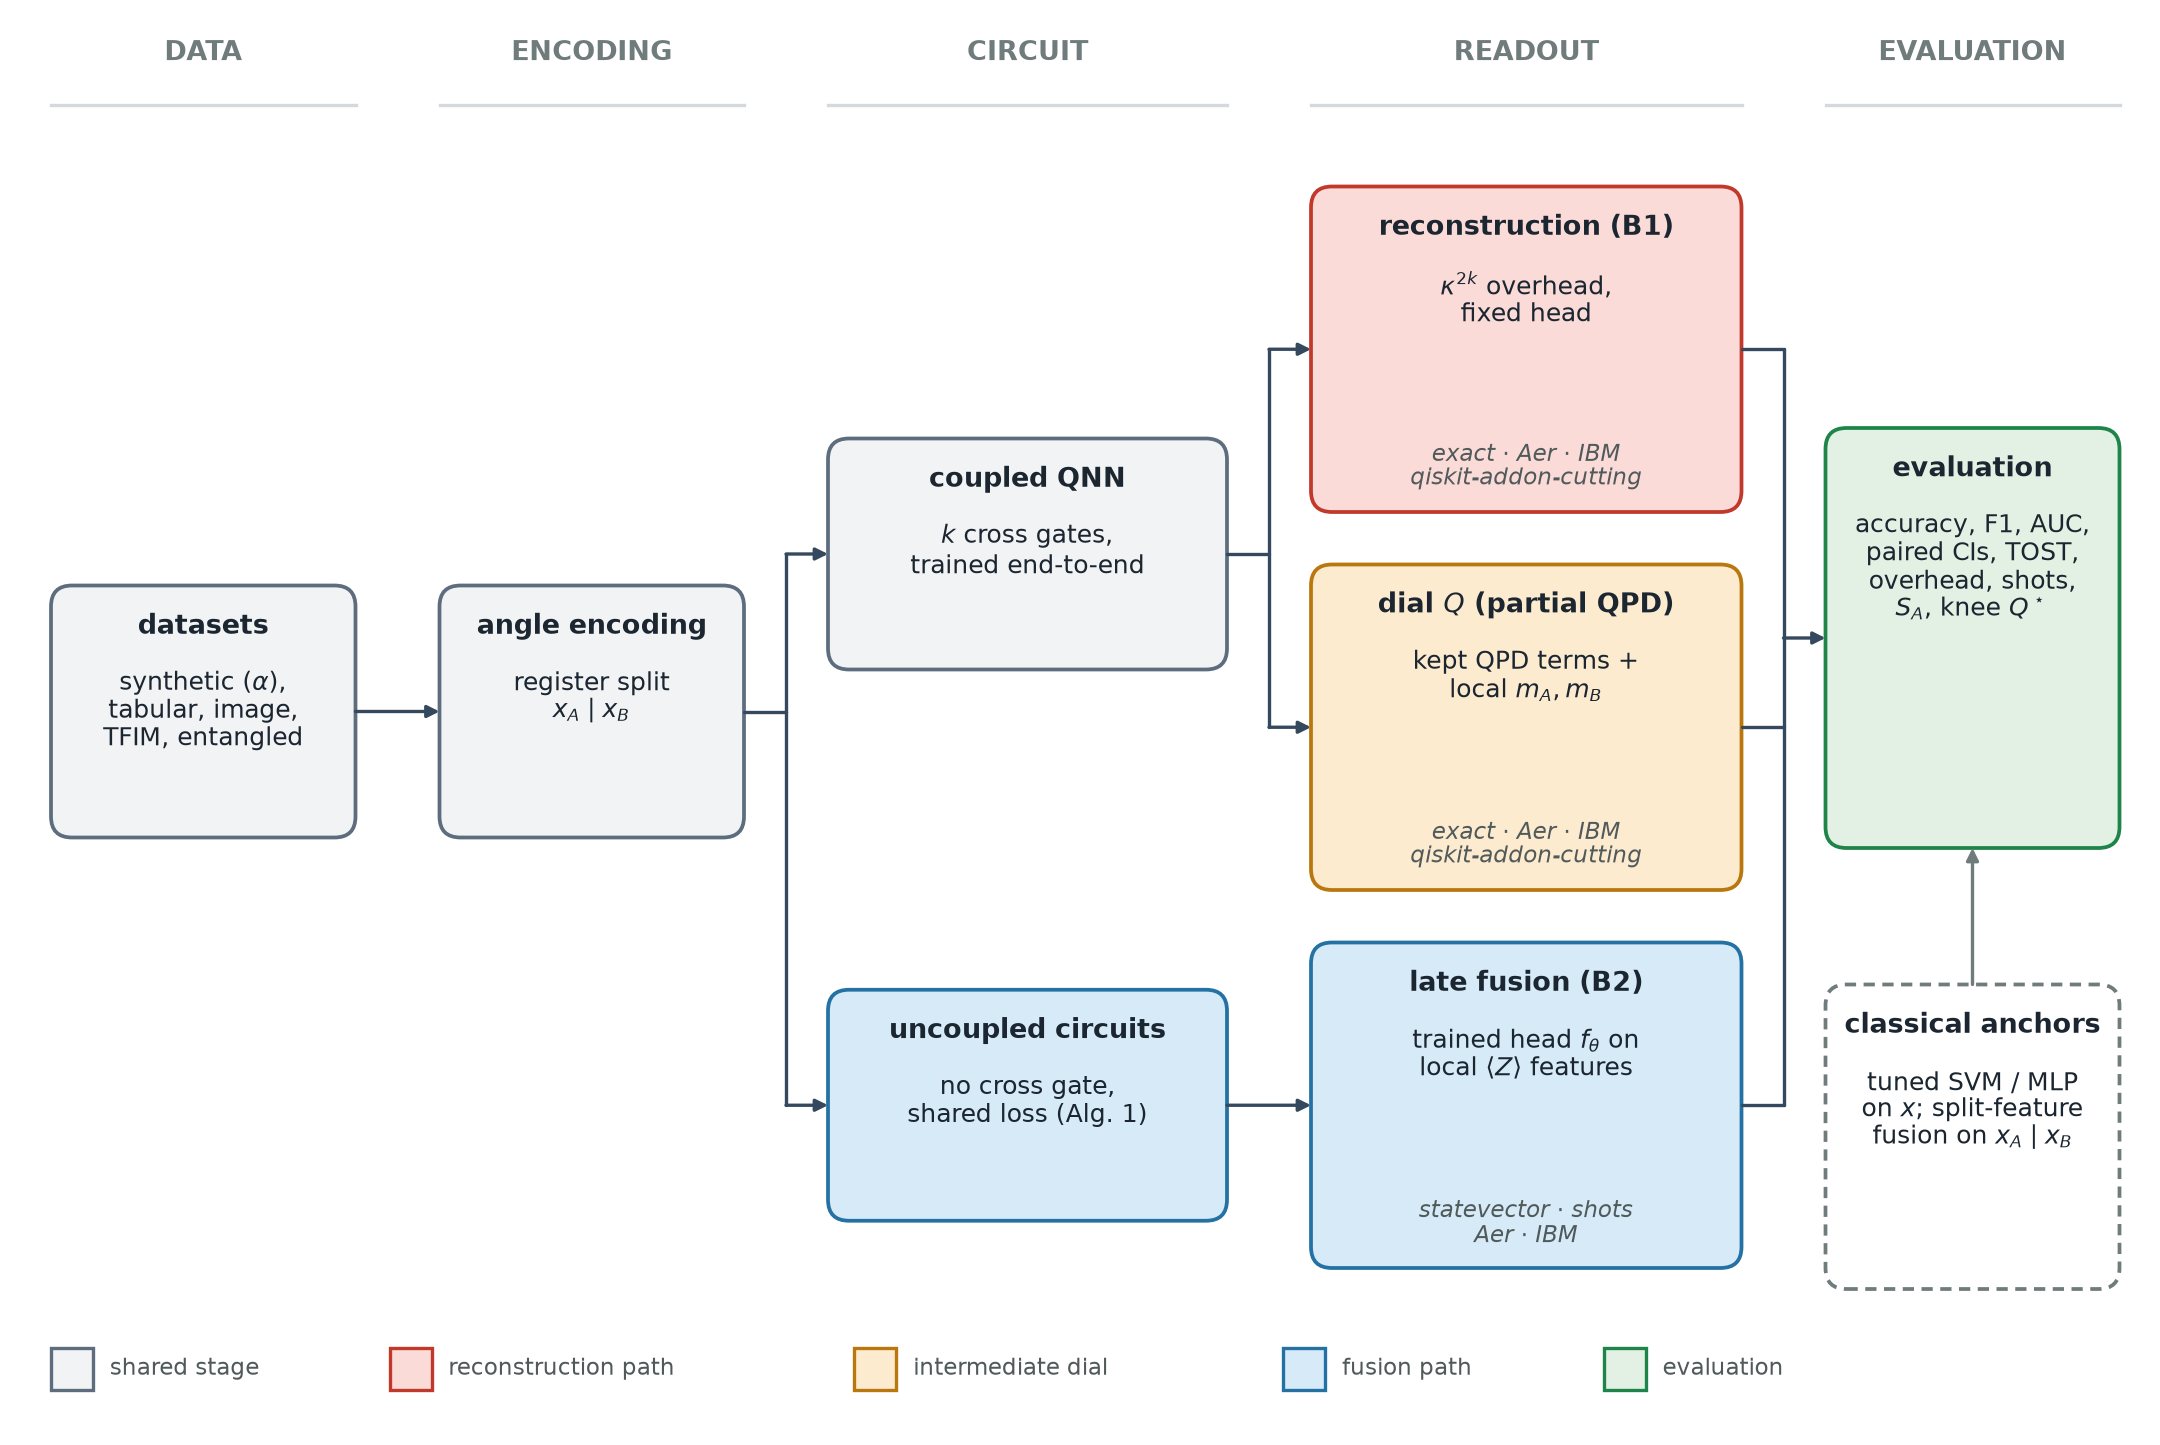
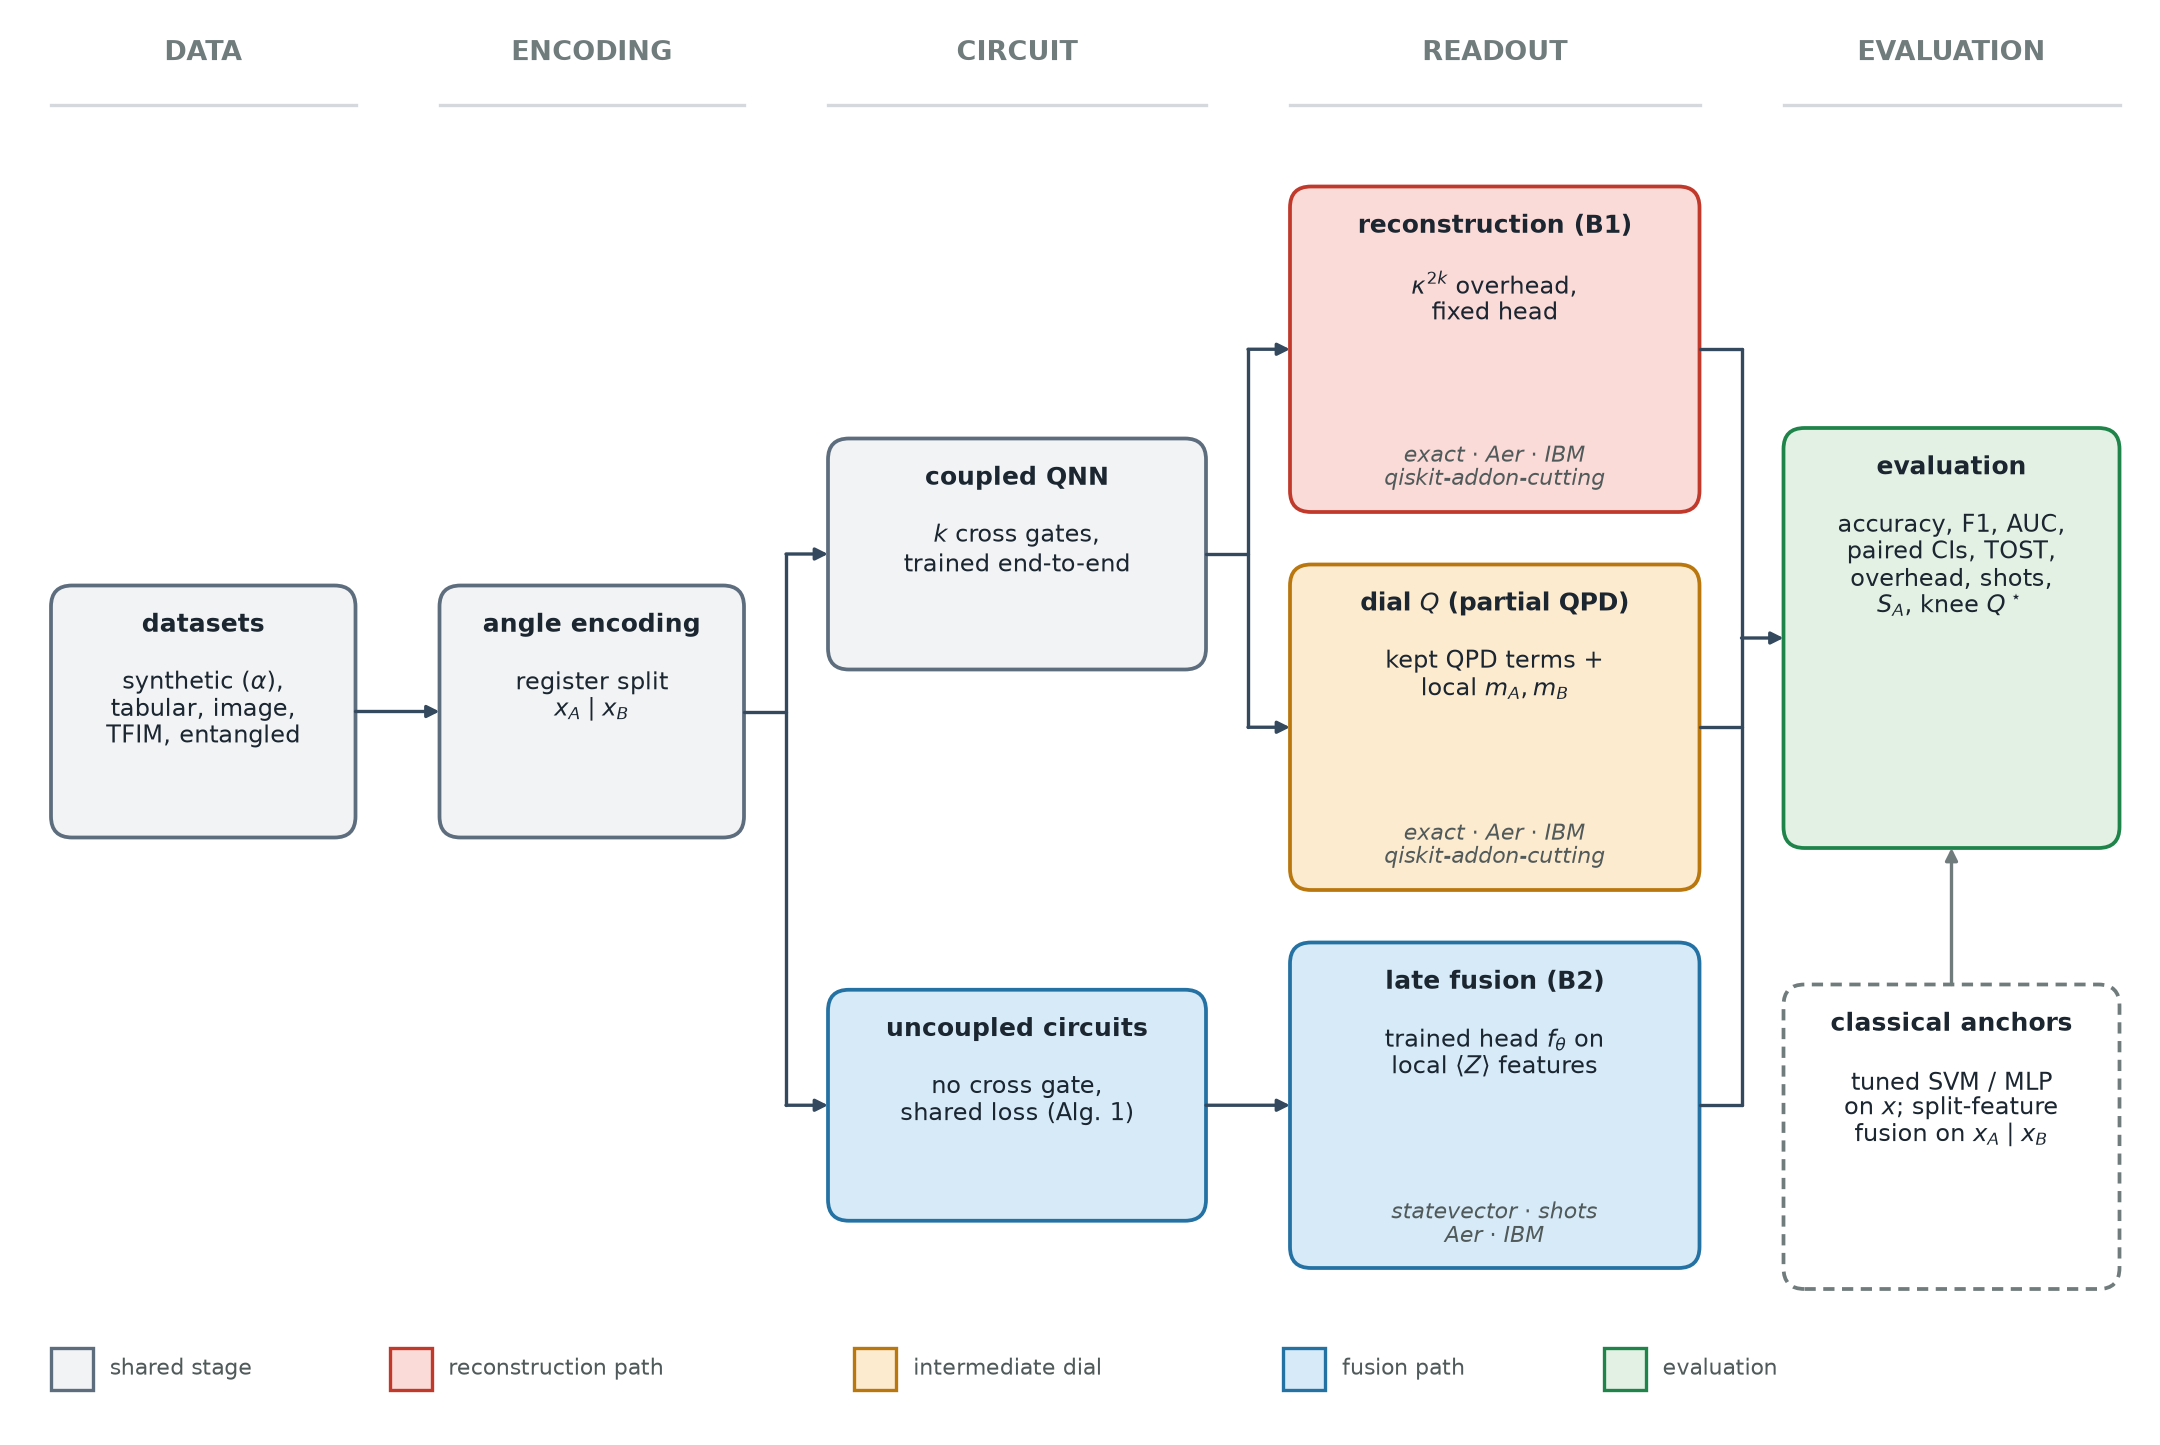
Figure 1: column widths tuned for the default typeface

diff --git a/make_figures.py b/make_figures.py
@@ -503,7 +503,7 @@ def fig_pipeline():
             fam = PIPELINE_FONT
     rc = {"font.family": fam, "mathtext.fontset": "custom", "mathtext.rm": fam, "mathtext.it": fam + ":italic",
           "mathtext.bf": fam + ":bold", "mathtext.sf": fam, "mathtext.cal": fam} if fam else {}
-    f_head, f_title, f_body, f_eng = 6.5, 6.5, 6.0, 5.5
+    f_head, f_title, f_body, f_eng = (6.5, 6.5, 6.0, 5.5) if fam else (6.5, 5.9, 5.8, 5.3)   # DejaVu is wider
     with plt.rc_context(rc):
         fig, ax = plt.subplots(figsize=(WP, WP * 0.66))
         fig.subplots_adjust(0, 0, 1, 1)
@@ -541,30 +541,30 @@ def fig_pipeline():
             ax.plot([xm, xm], [ys[0], ys[-1]], color=line, lw=0.8, solid_capstyle="round")
             head(xm, x1, y1)
         # columns: x, width (gaps of 4 units carry the connectors)
-        cols = [(1, 14.5, "DATA"), (19.5, 14.5, "ENCODING"), (38, 19, "CIRCUIT"), (61, 20.5, "READOUT"), (85.5, 14, "EVALUATION")]
+        cols = [(1, 14.5, "DATA"), (19.5, 14.5, "ENCODING"), (38, 18, "CIRCUIT"), (60, 19.5, "READOUT"), (83.5, 16, "EVALUATION")]
         for x, w, lab in cols:
             ax.text(x + w / 2, 65.5, lab, ha="center", va="top", fontsize=f_head, color="#707b7c", fontweight="bold")
             ax.plot([x, x + w], [62.4, 62.4], color="#d5d8dc", lw=0.8)
         H = 15.5
         box(1, 27.5, 14.5, 12, "datasets", "synthetic ($\\alpha$),\ntabular, image,\nTFIM, entangled", "shared")
         box(19.5, 27.5, 14.5, 12, "angle encoding", "register split\n$x_A \\mid x_B$", "shared")
-        box(38, 35.5, 19, 11, "coupled QNN", "$k$ cross gates,\ntrained end-to-end", "shared")
-        box(38, 9.25, 19, 11, "uncoupled circuits", "no cross gate,\nshared loss (Alg. 1)", "fusion")
-        box(61, 43, 20.5, H, "reconstruction (B1)", "$\\kappa^{2k}$ overhead,\nfixed head", "recon",
+        box(38, 35.5, 18, 11, "coupled QNN", "$k$ cross gates,\ntrained end-to-end", "shared")
+        box(38, 9.25, 18, 11, "uncoupled circuits", "no cross gate,\nshared loss (Alg. 1)", "fusion")
+        box(60, 43, 19.5, H, "reconstruction (B1)", "$\\kappa^{2k}$ overhead,\nfixed head", "recon",
             "exact $\\cdot$ Aer $\\cdot$ IBM\nqiskit-addon-cutting")
-        box(61, 25, 20.5, H, "dial $Q$ (partial QPD)", "kept QPD terms $+$\nlocal $m_A, m_B$", "dial",
+        box(60, 25, 19.5, H, "dial $Q$ (partial QPD)", "kept QPD terms $+$\nlocal $m_A, m_B$", "dial",
             "exact $\\cdot$ Aer $\\cdot$ IBM\nqiskit-addon-cutting")
-        box(61, 7, 20.5, H, "late fusion (B2)", "trained head $f_\\theta$ on\nlocal $\\langle Z\\rangle$ features", "fusion",
+        box(60, 7, 19.5, H, "late fusion (B2)", "trained head $f_\\theta$ on\nlocal $\\langle Z\\rangle$ features", "fusion",
             "statevector $\\cdot$ shots\nAer $\\cdot$ IBM")
-        box(85.5, 27, 14, 20, "evaluation", "accuracy, F1, AUC,\npaired CIs, TOST,\noverhead, shots,\n$S_A$, knee $Q^\\star$", "eval")
-        box(85.5, 6, 14, 14.5, "classical anchors", "tuned SVM / MLP\non $x$; split-feature\nfusion on $x_A \\mid x_B$", "shared", dashed=True)
+        box(83.5, 27, 16, 20, "evaluation", "accuracy, F1, AUC,\npaired CIs, TOST,\noverhead, shots,\n$S_A$, knee $Q^\\star$", "eval")
+        box(83.5, 6, 16, 14.5, "classical anchors", "tuned SVM / MLP\non $x$; split-feature\nfusion on $x_A \\mid x_B$", "shared", dashed=True)
         # connectors: data -> encoding -> {coupled, uncoupled}; coupled -> {B1, dial}; uncoupled -> B2; readouts -> evaluation
         head(15.5, 19.5, 33.5)
         fanout(34, 33.5, 38, [41, 14.75])
-        fanout(57, 41, 61, [50.75, 32.75])
-        head(57, 61, 14.75)
-        fanin([50.75, 32.75, 14.75], 81.5, 85.5, 37)
-        ax.annotate("", xy=(92.5, 27), xytext=(92.5, 20.5), arrowprops=dict(arrowstyle="-|>", lw=0.8, color="#707b7c", shrinkA=0, shrinkB=0, mutation_scale=6))
+        fanout(56, 41, 60, [50.75, 32.75])
+        head(56, 60, 14.75)
+        fanin([50.75, 32.75, 14.75], 79.5, 83.5, 37)
+        ax.annotate("", xy=(91.5, 27), xytext=(91.5, 20.5), arrowprops=dict(arrowstyle="-|>", lw=0.8, color="#707b7c", shrinkA=0, shrinkB=0, mutation_scale=6))
         # colour key
         kx = 1
         for kind, lab in [("shared", "shared stage"), ("recon", "reconstruction path"), ("dial", "intermediate dial"),
